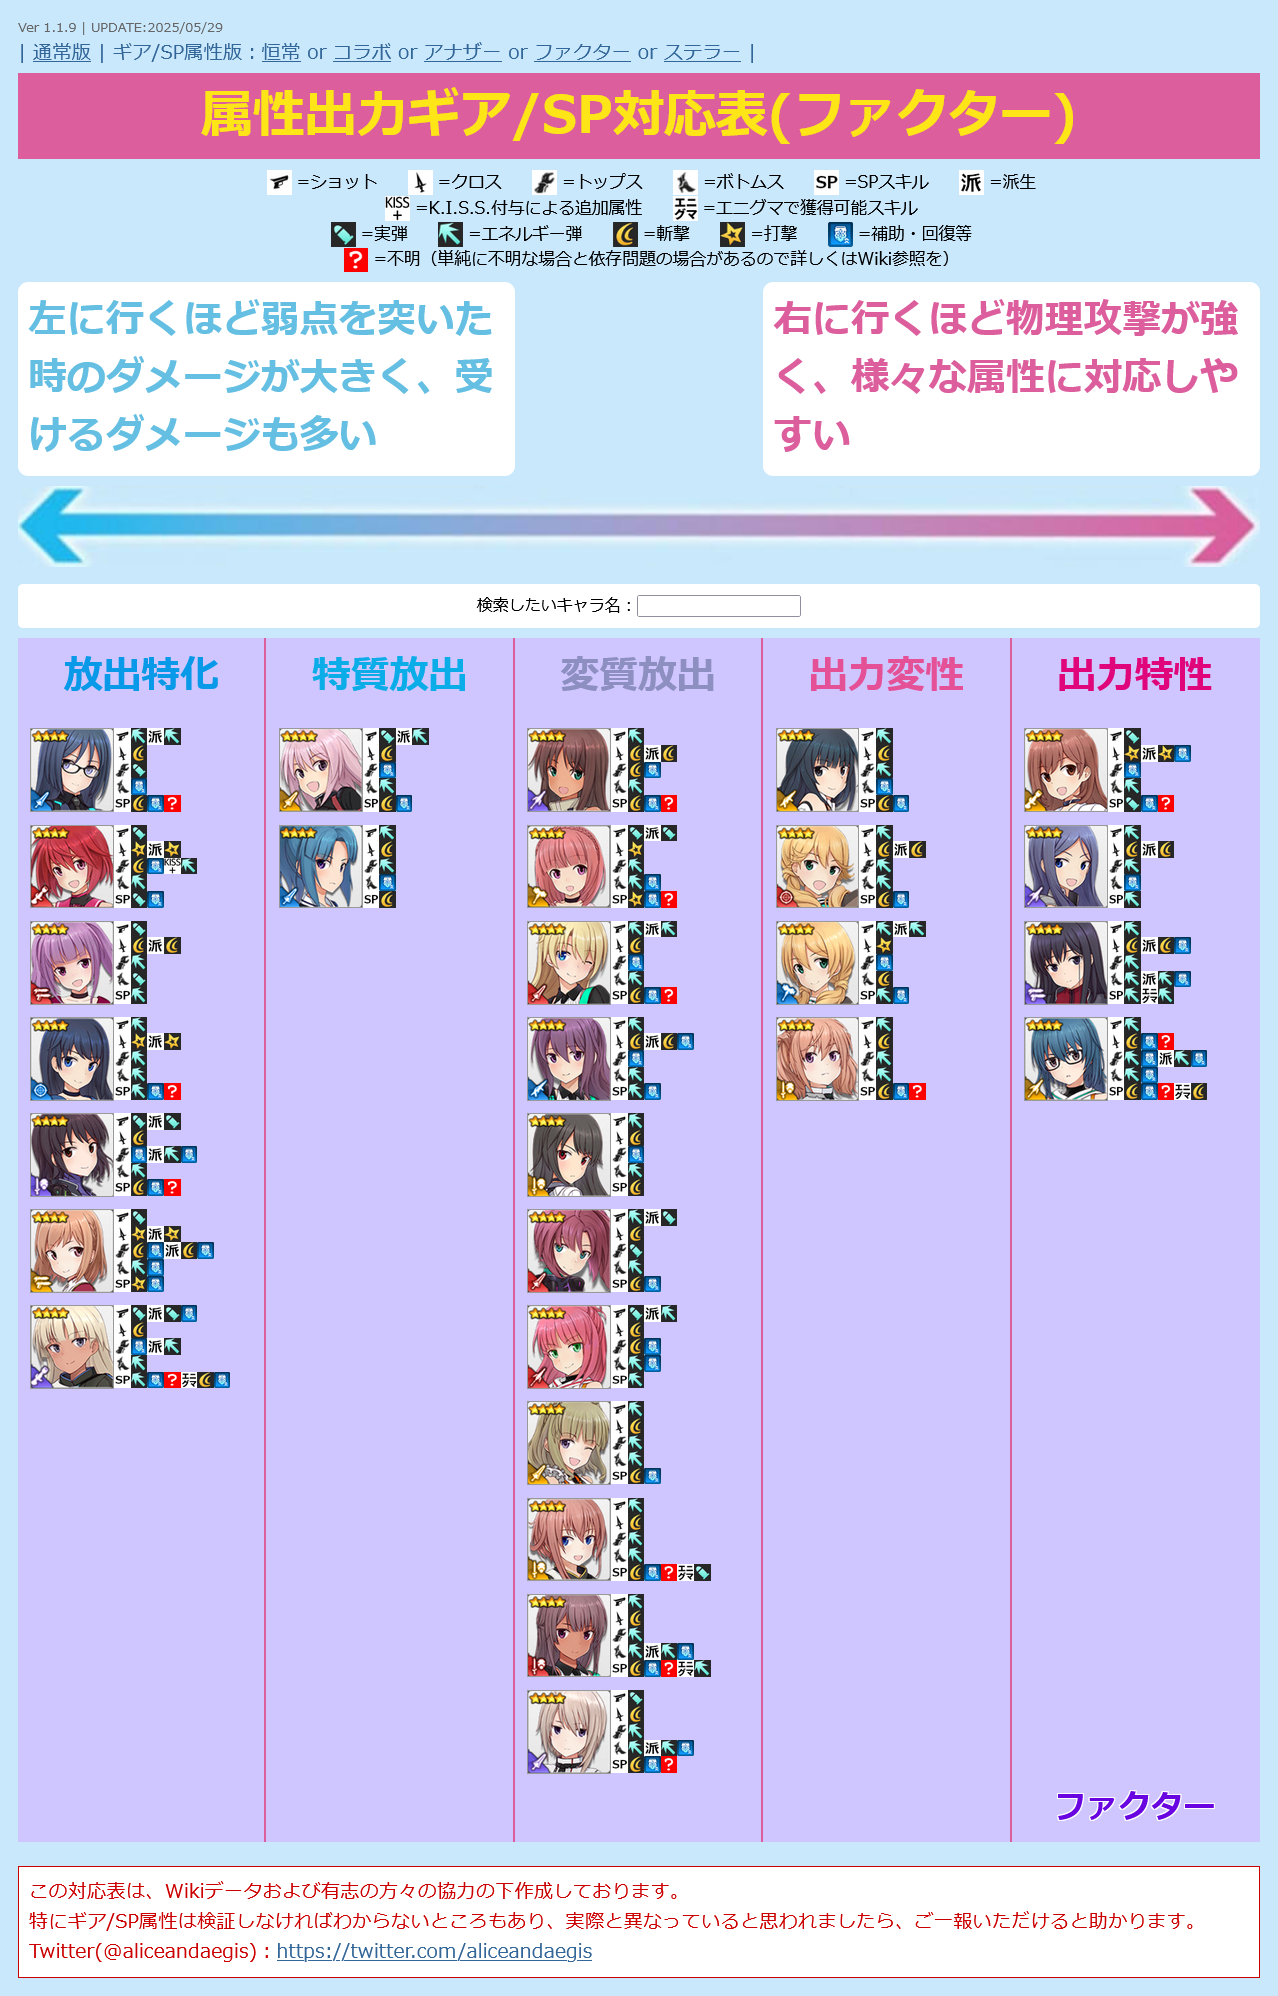
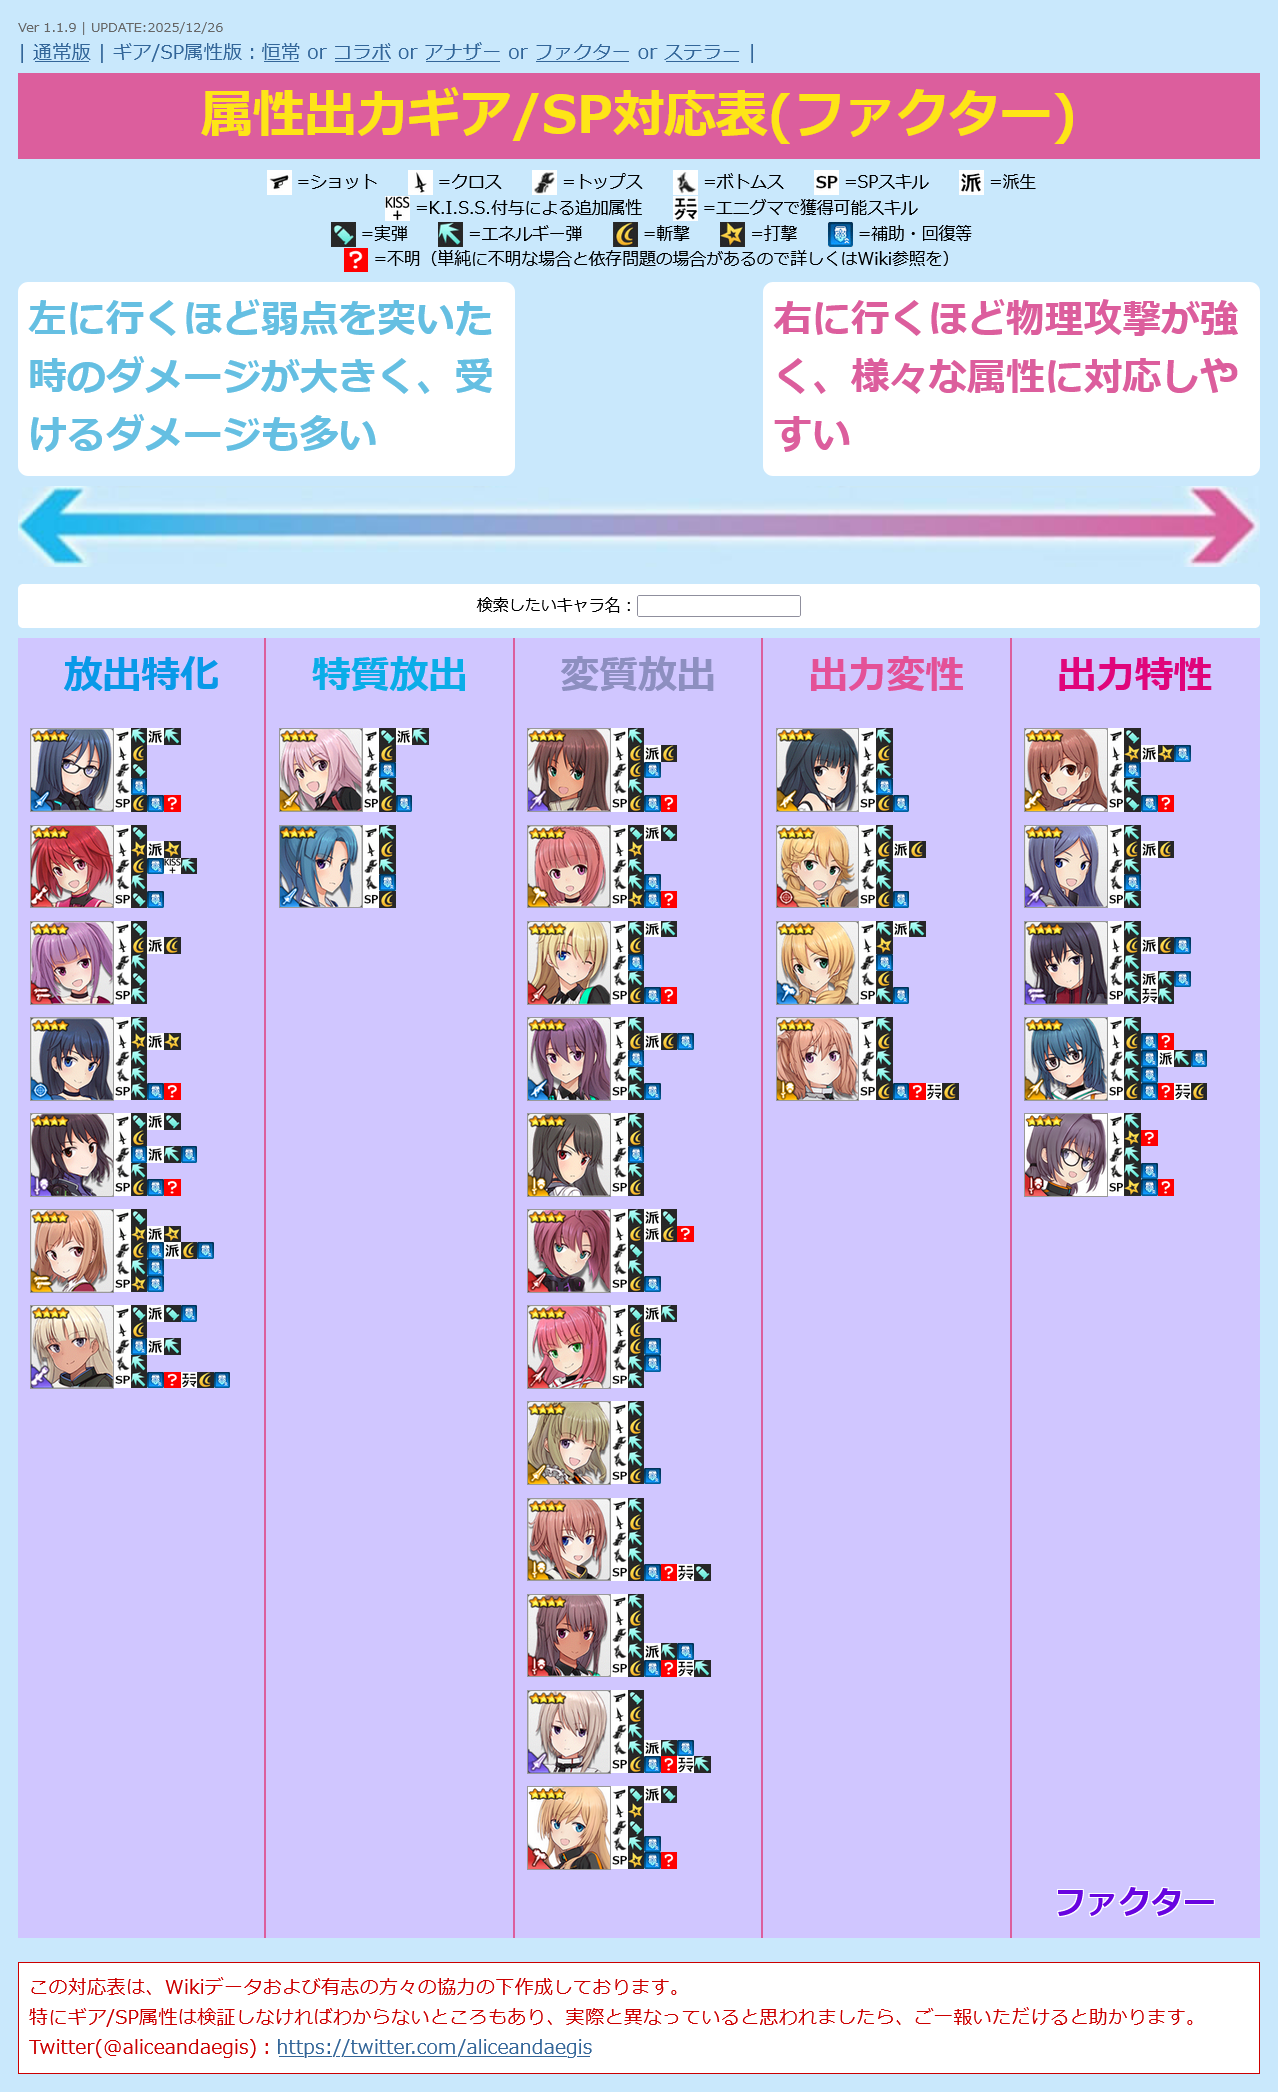
UPDATE charadata
・ファクター 米良渕 花浪 / ブレイブを追加
・ファクター 駒添 絵伝 / クリエイトを追加

Changed region(s): [[0.0, 0.0, 1.0, 0.994]]

diff --git a/alice.html b/alice.html
@@ -12,7 +12,7 @@
   <script>
 
 /* 更新情報 必要に応じて書き換えてください */
-  var version = "Ver 1.1.9 | UPDATE:2025/12/26";
+  var version = "Ver 1.1.9 | UPDATE:2026/01/26";
 
 
 /*
@@ -2348,6 +2348,20 @@
       "category": "10"
     },
     {
+      "id": "57",
+      "type": "3",
+      "src": "factor-kanami.png",
+      "name": "米良渕 花浪 / ブレイブ",
+      "equip1": "1/1",
+      "equip2": "4",
+      "equip3": "1",
+      "equip4": "25",
+      "sp": "45?",
+      "attr": "3",
+      "link": "https://wikiwiki.jp/alicegear/%E7%B1%B3%E8%89%AF%E6%B8%95%E8%8A%B1%E6%B5%AA/%E3%83%96%E3%83%AC%E3%82%A4%E3%83%96",
+      "category": "11"
+    },
+    {
       "id": "58",
       "type": "3",
       "src": "normal-akino.png",
@@ -2458,6 +2472,20 @@
       "attr": "3",
       "link": "https://wikiwiki.jp/alicegear/%E9%A7%92%E6%B7%BB%E7%B5%B5%E4%BC%9D%E7%8E%84%E9%BB%84",
       "category": "10"
+    },
+    {
+      "id": "61",
+      "type": "5",
+      "src": "factor-eden.png",
+      "name": "駒添 絵伝 / クリエイト",
+      "equip1": "2",
+      "equip2": "4?",
+      "equip3": "2",
+      "equip4": "25",
+      "sp": "45?",
+      "attr": "3",
+      "link": "https://wikiwiki.jp/alicegear/%E9%A7%92%E6%B7%BB%E7%B5%B5%E4%BC%9D/%E3%82%AF%E3%83%AA%E3%82%A8%E3%82%A4%E3%83%88",
+      "category": "11"
     },
     {
       "id": "62",
